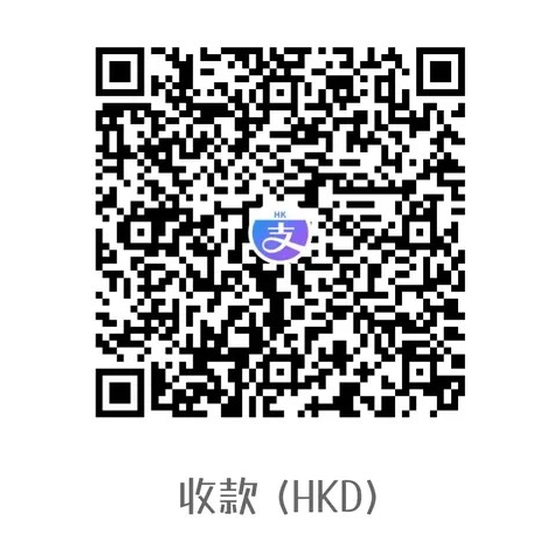
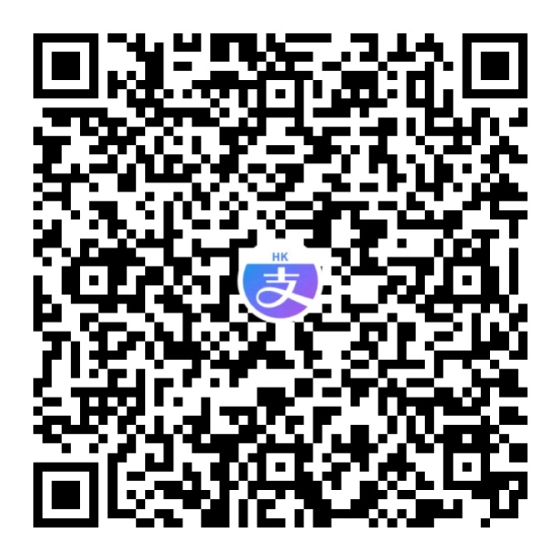
fix: payment QR now uses the real payment URL + open-in-app button

diff --git a/components/sponsor/pay-client.tsx b/components/sponsor/pay-client.tsx
@@ -3,10 +3,10 @@
 import * as React from "react";
 import Link from "next/link";
 import { useSearchParams } from "next/navigation";
-import { ArrowLeft, Check, Copy, Loader2, TriangleAlert } from "lucide-react";
+import { ArrowLeft, Check, Copy, ExternalLink, Loader2, TriangleAlert } from "lucide-react";
 
 import { useI18n } from "@/components/i18n-provider";
-import { SPONSOR_CHANNELS } from "@/lib/site";
+import { usableSponsorChannels, type SponsorChannel } from "@/lib/site";
 import { formatAmount, getTier, tierQr } from "@/lib/sponsor-tiers";
 
 /**
@@ -51,6 +51,36 @@ export function PayClient() {
   const [submitting, setSubmitting] = React.useState(false);
   const [done, setDone] = React.useState<string | null>(null);
   const [copied, setCopied] = React.useState(false);
+
+  /* 渠道选择：只列真正有东西可展示的（有码图或支付链接） */
+  const channels = React.useMemo(() => usableSponsorChannels(), []);
+  const [channelId, setChannelId] = React.useState<string>(channels[0]?.id ?? "");
+  const channel: SponsorChannel | null =
+    channels.find((c) => c.id === channelId) ?? channels[0] ?? null;
+
+  /* 用真实支付链接现生成二维码 —— 不依赖 public/ 里有没有那张图 */
+  const [qrSvg, setQrSvg] = React.useState<{ path: string; size: number } | null>(null);
+  React.useEffect(() => {
+    const url = channel?.payUrl?.trim();
+    if (!url) {
+      setQrSvg(null);
+      return;
+    }
+    let alive = true;
+    void (async () => {
+      try {
+        const { qrMatrix, qrSvgPath, qrViewBox } = await import("@/lib/qr");
+        const matrix = qrMatrix(url);
+        if (!alive) return;
+        setQrSvg({ path: qrSvgPath(matrix), size: qrViewBox(matrix) });
+      } catch {
+        if (alive) setQrSvg(null);
+      }
+    })();
+    return () => {
+      alive = false;
+    };
+  }, [channel?.payUrl]);
 
   /* 读订单 */
   React.useEffect(() => {
@@ -130,18 +160,25 @@ export function PayClient() {
     }
   }
 
-  const channel = SPONSOR_CHANNELS[0];
   const isRecharge = order?.purpose === "recharge";
   const backHref = isRecharge ? "/account" : "/sponsor";
   const backLabel = isRecharge ? t("pay.backToAccount") : t("pay.backToSponsor");
   const tier = order ? getTier(order.tier) : null;
   /*
    * 档位有专属码就用专属码（金额写死在码里，最省事）；
-   * 没有就共用渠道第一张 —— 那时金额对不上，必须提示付款人自己改。
+   * 没有就共用渠道那张 —— 那时金额对不上，必须提示付款人自己改。
    */
   const tierQrSrc = order ? tierQr(order.tier) : null;
-  const qrSrc = tierQrSrc ?? channel?.qr ?? null;
+  /*
+   * 展示用的码图：档位专属码 → 渠道码图。
+   *
+   * ⚠ 但它只是**兜底**。只要渠道有 payUrl，就优先用 payUrl 现生成的码
+   * （见下方 qrSvg）—— 那才是能保证扫得出来的：
+   * 图片文件可能没放进 public/，而 payUrl 是实时编码的。
+   */
+  const qrSrc = tierQrSrc ?? channel?.qr?.trim() ?? null;
   const needManualAmount = !tierQrSrc;
+  const payUrl = channel?.payUrl?.trim() ?? "";
 
   if (loading) {
     return (
@@ -227,7 +264,41 @@ export function PayClient() {
             <span className="font-mono font-semibold">{order.domain}</span>
           </p>
         ) : null}
-        {qrSrc ? (
+        {/* 多个渠道时让付款人自己挑；只有一个就不显示选择器 */}
+        {channels.length > 1 ? (
+          <div className="mt-3 flex flex-wrap gap-1.5">
+            {channels.map((c) => (
+              <button
+                key={c.id}
+                type="button"
+                onClick={() => setChannelId(c.id)}
+                className={`rounded-[--radius-ctrl] border px-2.5 py-1 text-xs transition-[transition-duration:var(--motion-fast)] ${
+                  c.id === channel?.id
+                    ? "border-primary bg-primary/10 text-fg-primary"
+                    : "border-border text-fg-tertiary hover:bg-bg-subtle"
+                }`}
+              >
+                {c.name}
+              </button>
+            ))}
+          </div>
+        ) : null}
+
+        {/*
+          ① 优先用 payUrl 现生成的码。
+          内容是**真实支付链接**，AlipayHK / 支付宝扫了直接进支付页；
+          以前生成的是本站付款页地址，扫码器不认，才报「无法对应」。
+        */}
+        {qrSvg ? (
+          <svg
+            viewBox={`0 0 ${qrSvg.size} ${qrSvg.size}`}
+            role="img"
+            aria-label={t("sponsor.qrAlt", { name: channel?.name ?? "收款码" })}
+            className="mx-auto mt-4 aspect-square w-full max-w-[260px] rounded-[--radius-ctrl] bg-white p-2"
+          >
+            <path d={qrSvg.path} fill="#000" />
+          </svg>
+        ) : qrSrc ? (
           // eslint-disable-next-line @next/next/no-img-element
           <img
             src={qrSrc}
@@ -237,11 +308,30 @@ export function PayClient() {
             className="mx-auto mt-4 aspect-square w-full max-w-[260px] rounded-[--radius-ctrl] bg-white object-contain"
           />
         ) : null}
+
+        {/* ② 不用扫码的那条路：直接打开支付页 */}
+        {payUrl ? (
+          <a
+            href={payUrl}
+            target="_blank"
+            rel="noopener noreferrer"
+            className="mt-3 inline-flex w-full items-center justify-center gap-1.5 rounded-[--radius-ctrl] bg-primary px-4 py-2.5 text-sm font-medium text-primary-fg"
+          >
+            <ExternalLink className="h-4 w-4" />
+            {t("pay.openPayPage", { name: channel?.name ?? "" })}
+          </a>
+        ) : null}
+
         <p className="mt-3 text-center text-xs leading-relaxed text-fg-tertiary">
           {needManualAmount
             ? t("pay.amountHint", { amount: formatAmount(order.amount) })
             : (channel?.note ?? t("pay.scanHint"))}
         </p>
+        {payUrl ? (
+          <p className="mt-1.5 text-center text-[11px] leading-relaxed text-fg-quaternary">
+            {t("pay.payUrlHint")}
+          </p>
+        ) : null}
       </section>
 
       {/* ③ 已付款确认 */}

diff --git a/lib/site.ts b/lib/site.ts
@@ -187,23 +187,46 @@ export const SPONSOR_NOTE: string =
 export interface SponsorChannel {
   id: string;
   name: string;
-  /** 图片地址：本地路径或外链 */
+  /** 图片地址：本地路径或外链。留空表示这个渠道没有码图 */
   qr: string;
+  /**
+   * 真实支付页链接 —— **不用扫码也能付**的那条路。
+   *
+   * ⚠ 为什么必须有它：
+   * AlipayHK / 支付宝的扫码器只认自己体系的链接（qr.alipay.hk 之类），
+   * 扫一个普通网址会直接报「该二维码对应服务无法支持」。
+   * 所以付款页要能**点一下就跳到真正的支付页**，
+   * 二维码也必须以这个链接为内容（而不是本站的付款页地址）。
+   *
+   * 留空则只显示码图，没有「打开付款页」按钮。
+   */
+  payUrl: string;
   note: string;
 }
 
+/**
+ * AlipayHK 收款链接（站长的码，10 HKD 那张）。
+ *
+ * 可被 NEXT_PUBLIC_ALIPAYHK_PAY_URL 覆盖 —— 换码时改环境变量即可，不用动代码。
+ */
+const DEFAULT_ALIPAYHK_PAY_URL =
+  "https://render.alipay.com/p/yuyan/180020010001270667/landing/income.html?qrcode=https://qr.alipay.hk/281004010498YvOJ6IxMp1j0Eu2sOlH7QF5g";
+
 const DEFAULT_SPONSOR_CHANNELS: SponsorChannel[] = [
-  {
-    id: "alipay",
-    name: "支付宝",
-    qr: "/sponsor-alipay.png",
-    note: "内地用户：打开支付宝「扫一扫」",
-  },
   {
     id: "alipayhk",
     name: "AlipayHK",
     qr: "/sponsor-qr.png",
-    note: "香港用户：用 AlipayHK App 扫码",
+    payUrl: process.env.NEXT_PUBLIC_ALIPAYHK_PAY_URL?.trim() || DEFAULT_ALIPAYHK_PAY_URL,
+    note: "香港用户：可直接打开付款页，或用 AlipayHK App 扫码",
+  },
+  {
+    id: "alipay",
+    name: "支付宝",
+    // 站点里没有这张图，留空让组件跳过 —— 摆个不存在的地址只会显示破图
+    qr: "",
+    payUrl: "",
+    note: "内地支付宝：需要商户号，暂未接通",
   },
 ];
 
@@ -222,7 +245,8 @@ function resolveSponsorChannels(): SponsorChannel[] {
           .map((c, i) => ({
             id: String(c.id ?? `channel-${i}`),
             name: String(c.name ?? "收款码"),
-            qr: String(c.qr),
+            qr: typeof c.qr === "string" ? c.qr : "",
+            payUrl: typeof c.payUrl === "string" ? c.payUrl : "",
             note: String(c.note ?? ""),
           }));
         // JSON 写错或数组为空时退回默认，不至于让赞助页整个消失
@@ -236,10 +260,22 @@ function resolveSponsorChannels(): SponsorChannel[] {
   // 兼容旧的单码配置：只填了 NEXT_PUBLIC_SPONSOR_QR 时当成唯一渠道
   const legacy = process.env.NEXT_PUBLIC_SPONSOR_QR?.trim();
   if (legacy) {
-    return [{ id: "custom", name: SPONSOR_METHOD, qr: legacy, note: SPONSOR_NOTE }];
+    return [{ id: "custom", name: SPONSOR_METHOD, qr: legacy, payUrl: "", note: SPONSOR_NOTE }];
   }
 
   return DEFAULT_SPONSOR_CHANNELS;
+}
+
+/**
+ * 真正能用的渠道：至少要有码图或支付链接之一。
+ *
+ * ⚠ 为什么付款页必须走这个而不是 SPONSOR_CHANNELS[0]：
+ * 以前直接取第一项，而第一项（支付宝）的图根本没放进 public/，
+ * 结果付款页渲染出一个破图，扫码的人看到的正是「该二维码无法对应」。
+ * 现在没东西可展示的渠道一律不进列表。
+ */
+export function usableSponsorChannels(): SponsorChannel[] {
+  return SPONSOR_CHANNELS.filter((c) => Boolean(c?.qr?.trim()) || Boolean(c?.payUrl?.trim()));
 }
 
 export const SPONSOR_CHANNELS: SponsorChannel[] = resolveSponsorChannels();

diff --git a/components/sponsor/sponsor-qr.tsx b/components/sponsor/sponsor-qr.tsx
@@ -1,7 +1,7 @@
 "use client";
 
 import * as React from "react";
-import { QrCode, TriangleAlert } from "lucide-react";
+import { ExternalLink, QrCode, TriangleAlert } from "lucide-react";
 
 import { useI18n } from "@/components/i18n-provider";
 import { GlareCard } from "@/components/ui/glare-card";
@@ -66,16 +66,31 @@ function ChannelCard({ channel }: { channel: SponsorChannel }) {
               用 next/image 反而会多一层无谓的处理与配置约束。
             */}
             {/* eslint-disable-next-line @next/next/no-img-element */}
-            <img
-              src={channel.qr}
-              alt={t("sponsor.qrAlt", { name: channel.name })}
-              width={640}
-              height={640}
-              loading="lazy"
-              decoding="async"
-              onError={() => setFailed(true)}
-              className="mx-auto aspect-square w-full rounded-2xl bg-white object-contain"
-            />
+            {channel.qr ? (
+              // eslint-disable-next-line @next/next/no-img-element
+              <img
+                src={channel.qr}
+                alt={t("sponsor.qrAlt", { name: channel.name })}
+                width={640}
+                height={640}
+                loading="lazy"
+                decoding="async"
+                onError={() => setFailed(true)}
+                className="mx-auto aspect-square w-full rounded-2xl bg-white object-contain"
+              />
+            ) : null}
+            {/* 不用扫码的那条路：直接跳转真实支付页 */}
+            {channel.payUrl ? (
+              <a
+                href={channel.payUrl}
+                target="_blank"
+                rel="noopener noreferrer"
+                className="mt-3 flex w-full items-center justify-center gap-1.5 rounded-xl bg-white px-3 py-2 text-xs font-semibold text-[#082a63] hover:bg-white/90"
+              >
+                <ExternalLink className="h-3.5 w-3.5" />
+                {t("pay.openPayPage", { name: channel.name })}
+              </a>
+            ) : null}
             {channel.note ? (
               <p className="mt-3 text-center text-xs leading-relaxed text-white/60">
                 {channel.note}
@@ -98,7 +113,8 @@ function ChannelCard({ channel }: { channel: SponsorChannel }) {
  */
 export function SponsorChannels({ channels }: { channels: SponsorChannel[] }) {
   const { t } = useI18n();
-  const list = (channels ?? []).filter((c) => c && c.qr);
+  // 没码图也没支付链接的渠道不摆出来 —— 摆了就是个空壳
+  const list = (channels ?? []).filter((c) => c && (c.qr || c.payUrl));
   if (list.length === 0) return null;
 
   const single = list.length === 1;

diff --git a/lib/i18n/dict.ts b/lib/i18n/dict.ts
@@ -684,6 +684,8 @@ const DICT: Record<string, Entry> = {
   "pay.amountHint": { "zh-CN": "扫码后请在 App 里把金额改为 {amount} 再付款", "zh-TW": "掃碼後請在 App 裡把金額改為 {amount} 再付款", en: "After scanning, change the amount to {amount} in your app before paying", fr: "Après le scan, modifiez le montant à {amount} dans votre application avant de payer" },
   "pay.domainLabel": { "zh-CN": "要代购的域名", "zh-TW": "要代購的網域", en: "Domain to buy", fr: "Domaine à acheter" },
   "pay.backToAccount": { "zh-CN": "返回账户页", "zh-TW": "返回帳戶頁", en: "Back to your account", fr: "Retour à votre compte" },
+  "pay.openPayPage": { "zh-CN": "打开 {name} 付款页", "zh-TW": "打開 {name} 付款頁", en: "Open {name} payment page", fr: "Ouvrir la page de paiement {name}" },
+  "pay.payUrlHint": { "zh-CN": "不用扫码：点上面的按钮会直接跳到支付页，付款后回来填交易号。", "zh-TW": "不用掃碼：點上面的按鈕會直接跳到支付頁，付款後回來填交易號。", en: "No scanning needed: the button opens the payment page directly — come back here to enter the transaction number.", fr: "Pas besoin de scanner : le bouton ouvre directement la page de paiement — revenez ensuite saisir le numéro." },
   "pay.rechargeHint": { "zh-CN": "这笔是为 Pot Pay 充值 {amount}，确认后会自动加进你的余额。", "zh-TW": "這筆是為 Pot Pay 充值 {amount}，確認後會自動加進你的餘額。", en: "This tops up Pot Pay by {amount}. It lands in your balance once confirmed.", fr: "Ceci recharge Pot Pay de {amount}. Le montant arrive sur votre solde après confirmation." },
 
   // ---- 支付方式 ----

diff --git a/lib/changelog.ts b/lib/changelog.ts
@@ -26,6 +26,27 @@ export const CHANGELOG_START_DATE = "2026-10-09";
 export const CHANGELOG: ChangelogDay[] = [
   {
     date: "2026-10-29",
+    title: { zh: "收款码改成真实支付链接", en: "Payment QR now points at the real payment page" },
+    entries: [
+      {
+        tag: "fix",
+        zh: "付款页以前取的是渠道列表第一项（支付宝），而那张图根本没放进站点，扫码的人看到的正是「该二维码对应服务无法支持」—— 现在只展示真正有码或有支付链接的渠道",
+        en: "The payment page used the first channel (Alipay), whose image was never uploaded — that is what caused "this QR code is not supported". Only channels with an actual code or link are shown now",
+      },
+      {
+        tag: "new",
+        zh: "不用扫码了：付款页加了「打开 AlipayHK 付款页」按钮，点了直接跳到真正的支付页，付完回来填交易号",
+        en: "No scanning needed: a button opens the real AlipayHK payment page directly — come back afterwards to enter the transaction number",
+      },
+      {
+        tag: "improve",
+        zh: "付款页的二维码改为用真实支付链接现场生成（不再依赖 public/ 里那张图），扫了直接进支付页；站内收款码也换成了最新那张",
+        en: "The payment QR is now generated live from the real payment URL instead of relying on an image file, and the stored code was replaced with the latest one",
+      },
+    ],
+  },
+  {
+    date: "2026-10-29",
     title: { zh: "赞助分成赞助与代购档位", en: "Sponsorship split into sponsor and purchase tiers" },
     entries: [
       {
